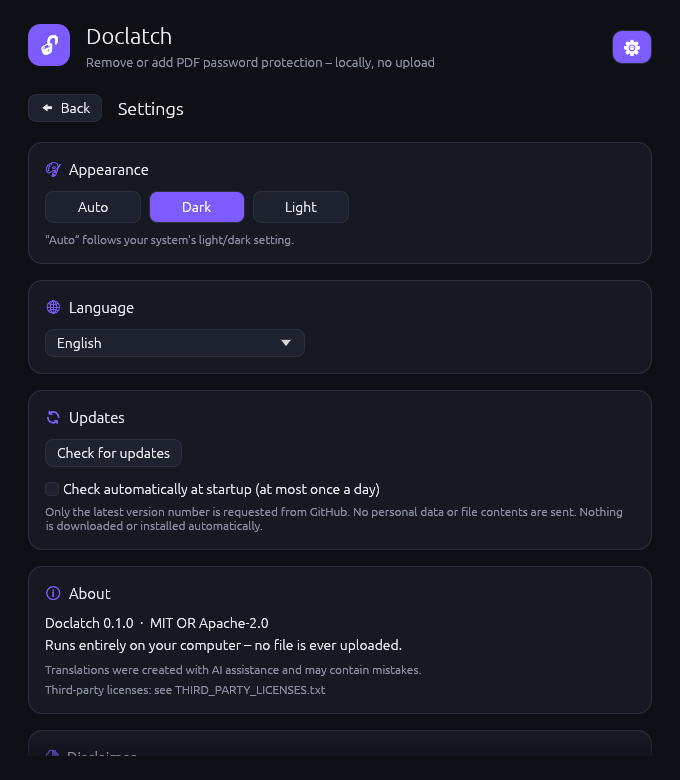
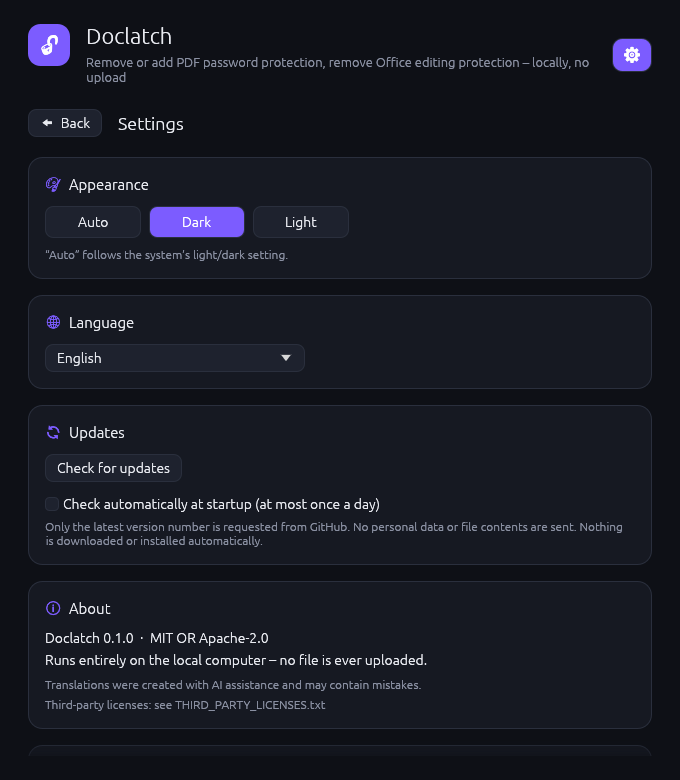
Update README screenshots and wording
Screenshots show Office files with the protection found, the generated
password and the current layout. README texts no longer address the
reader directly.

diff --git a/src/gui.rs b/src/gui.rs
@@ -2408,7 +2408,15 @@ mod tests {
         std::fs::copy(&restricted, dir.join("invoice.pdf")).unwrap();
         encrypted_file(&dir, "contract.pdf", 5, "secret", "owner");
         signed_sample().save(dir.join("application-form.pdf")).unwrap();
-        let names = ["report.pdf", "contract.pdf", "invoice.pdf", "application-form.pdf"];
+        crate::office::tests::make_zip(
+            &dir.join("budget.xlsx"),
+            &[
+                ("[Content_Types].xml", "<Types/>", true),
+                ("xl/workbook.xml", r#"<workbook xmlns="x"><workbookProtection lockStructure="1"/></workbook>"#, true),
+                ("xl/worksheets/sheet1.xml", r#"<worksheet xmlns="x"><sheetProtection sheet="1"/></worksheet>"#, true),
+            ],
+        );
+        let names = ["report.pdf", "contract.pdf", "budget.xlsx", "invoice.pdf", "application-form.pdf"];
         let files: Vec<PathBuf> = names.iter().map(|n| dir.join(n)).collect();
 
         let shot = |name: &str, theme: ThemePref, files: Vec<PathBuf>, prep: &dyn Fn(&mut Harness<'static, App>)| {
@@ -2420,11 +2428,12 @@ mod tests {
         };
         shot("unlock-dark", ThemePref::Dark, files.clone(), &|h| {
             h.run_steps(2);
-            h.query_all_by_label_contains(EN.st_restricted).next().expect("Badge fehlt").hover();
+            hover_entry(h, "budget.xlsx");
         });
         shot("protect-light", ThemePref::Light, files[..1].to_vec(), &|h| {
             h.state_mut().mode = Mode::Protect;
-            h.state_mut().open_pw = "example".into();
+            h.state_mut().open_pw = "Kx7mPq2wVt9nRb4hJs8eLd".into();
+            h.state_mut().show_new_pw = true;
             h.state_mut().allowed = Permissions::PRINTABLE | Permissions::COPYABLE_FOR_ACCESSIBILITY;
         });
         shot("settings-dark", ThemePref::Dark, vec![], &|h| h.state_mut().view = View::Settings);

diff --git a/README.md b/README.md
@@ -3,8 +3,8 @@
 **English** · [Deutsch](README.de.md)
 
 <p align="center">
-  <img src="docs/screenshots/unlock-dark.png" width="32%" alt="Unlock view showing the permissions of a restricted PDF">
-  <img src="docs/screenshots/protect-light.png" width="32%" alt="Protect view with open password and allowed actions">
+  <img src="docs/screenshots/unlock-dark.png" width="32%" alt="Unlock view with PDF and Office files and the protection found in a spreadsheet">
+  <img src="docs/screenshots/protect-light.png" width="32%" alt="Protect view with a generated open password and allowed actions">
   <img src="docs/screenshots/settings-dark.png" width="32%" alt="Settings with theme, language and updates">
 </p>
 
@@ -12,7 +12,7 @@ Removes password protection and permission restrictions (printing, copying, edit
 or protects PDFs with AES-256, an open password and selected restrictions.
 Pure Rust, runs natively on Linux, Windows and macOS. Files are processed locally and never uploaded.
 
-> To remove an **open password**, you need to know the password (user or owner password).
+> To remove an **open password**, the password must be known (user or owner password).
 > Pure restrictions (the PDF opens without a password) are removed without any input.
 
 Supported: RC4 40/128-bit, AES-128, AES-256 (standard security handler, PDF 1.4 – 2.0).
@@ -120,7 +120,7 @@ install -Dm644 packaging/doclatch.desktop ~/.local/share/applications/doclatch.d
 **Locally: Linux for all architectures (cargo-zigbuild)**
 
 ```bash
-cargo install --locked cargo-zigbuild cargo-deb      # Zig: pip install ziglang (or your package manager)
+cargo install --locked cargo-zigbuild cargo-deb      # Zig: pip install ziglang (or the system package manager)
 rustup target add aarch64-unknown-linux-gnu riscv64gc-unknown-linux-gnu
 scripts/build-linux.sh                               # → dist/
 ```
@@ -160,5 +160,5 @@ Regenerate after dependency updates: `python3 scripts/gen_licenses.py`
 
 ## Disclaimer
 
-This software is provided “as is”, without warranty of any kind. Use it at your own risk and keep
-backups of important files. Only process documents you are entitled to edit.
+This software is provided “as is”, without warranty of any kind. Use is at one’s own risk; backups of
+important files are recommended. Only documents one is entitled to edit should be processed.

diff --git a/README.de.md b/README.de.md
@@ -3,8 +3,8 @@
 [English](README.md) · **Deutsch**
 
 <p align="center">
-  <img src="docs/screenshots/unlock-dark.png" width="32%" alt="Entsperren-Ansicht mit den Berechtigungen einer eingeschränkten PDF">
-  <img src="docs/screenshots/protect-light.png" width="32%" alt="Schützen-Ansicht mit Öffnen-Passwort und erlaubten Aktionen">
+  <img src="docs/screenshots/unlock-dark.png" width="32%" alt="Entsperren-Ansicht mit PDF- und Office-Dateien und dem gefundenen Schutz einer Tabelle">
+  <img src="docs/screenshots/protect-light.png" width="32%" alt="Schützen-Ansicht mit erzeugtem Öffnen-Passwort und erlaubten Aktionen">
   <img src="docs/screenshots/settings-dark.png" width="32%" alt="Einstellungen mit Theme, Sprache und Updates">
 </p>
 
